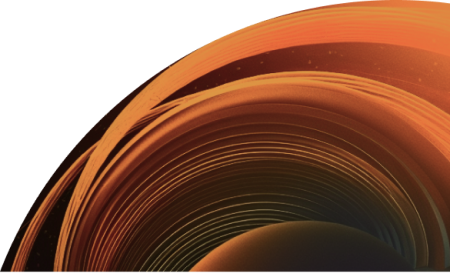
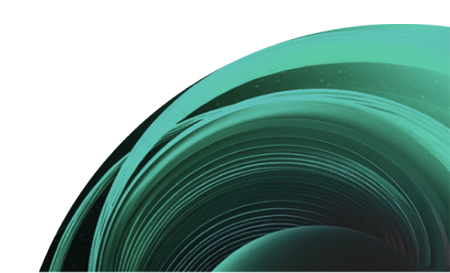
updated theme, contact design

diff --git a/pages/contact/index.js b/pages/contact/index.js
@@ -10,7 +10,7 @@ const Contact = () => {
 		<div className='h-full bg-primary/30 '>
 			<div className='container mx-auto py-32 text-center xl:text-left flex items-center justify-center h-full  '>
 				<div className='flex flex-col w-full max-w-[700px] '>
-					<motion.h2 
+					<motion.h2
 						variants={fadeIn('up', 0.2)}
 						initial='hidden'
 						animate='show'
@@ -38,7 +38,7 @@ const Contact = () => {
 							placeholder='message'
 							className='textarea'
 						></textarea>
-						<button className='btn rounded-full border border-white/50 max-w-[170px] px-8 transition-all duration-300 flex items-center justify-center overflow-hidden hover:border-accent group'>
+						<button className='btn rounded-full border border-white/50 max-w-[170px] px-8 transition-all duration-300 flex items-center justify-center overflow-hidden border-primary-group group'>
 							<span className='group-hover:-translate-y-[120%] group-hover:opacity-0 transition-all duration-500'>
 								Lets talk
 							</span>

diff --git a/pages/work/index.js b/pages/work/index.js
@@ -21,7 +21,7 @@ const Work = () => {
 							exit='hidden'
 							className='h2 xl:mt-8'
 						>
-							My Service <span className='text-accent'>.</span>{' '}
+							My Work <span className='text-accent'>.</span>{' '}
 						</motion.h2>
 						<motion.p
 							variants={fadeIn('up', 0.2)}
@@ -30,10 +30,9 @@ const Work = () => {
 							exit='hidden'
 							className='mb-4 max-w-[400px] mx-auto lg:mx-0'
 						>
-							Lorem ipsum dolor sit, amet consectetur adipisicing elit. Officiis
-							unde eaque voluptates. Expedita ipsum, consectetur reiciendis
-							accusantium voluptatibus harum magni neque sit aut soluta, ratione
-							necessitatibus! Nemo ut deserunt culpa.
+							Embark on a Visual Odyssey: Explore My Portfolio Showcase,
+							Unveiling the Creative Journey Behind Captivating Works and
+							Diverse Projects.
 						</motion.p>
 					</div>
 					<motion.div

diff --git a/styles/globals.css b/styles/globals.css
@@ -74,3 +74,9 @@
 .swiper-pagination-bullet-active {
      background-color: #1e50f1 !important;
 }
+
+
+.border-primary-group:hover{
+    --tw-border-opacity: 1;
+    border-color: rgb(20 80 241 / var(--tw-border-opacity));
+}
